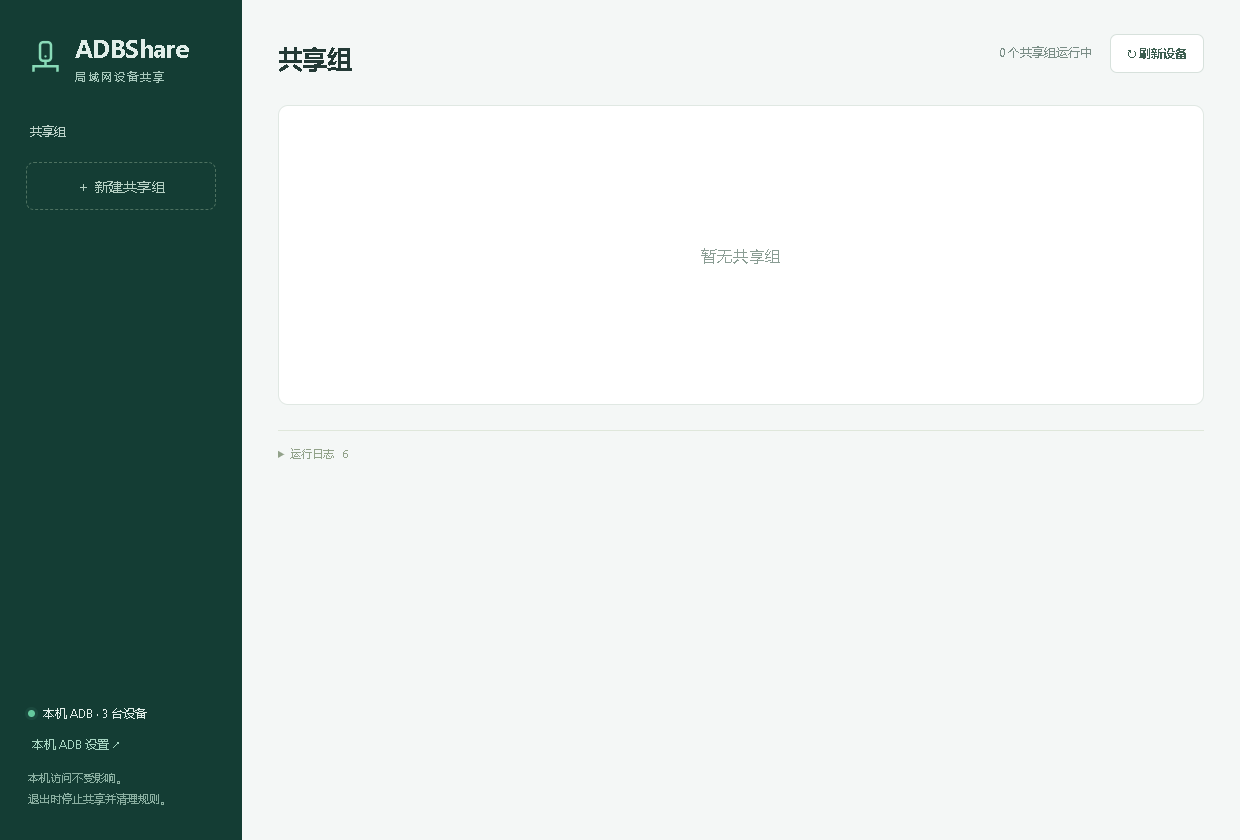
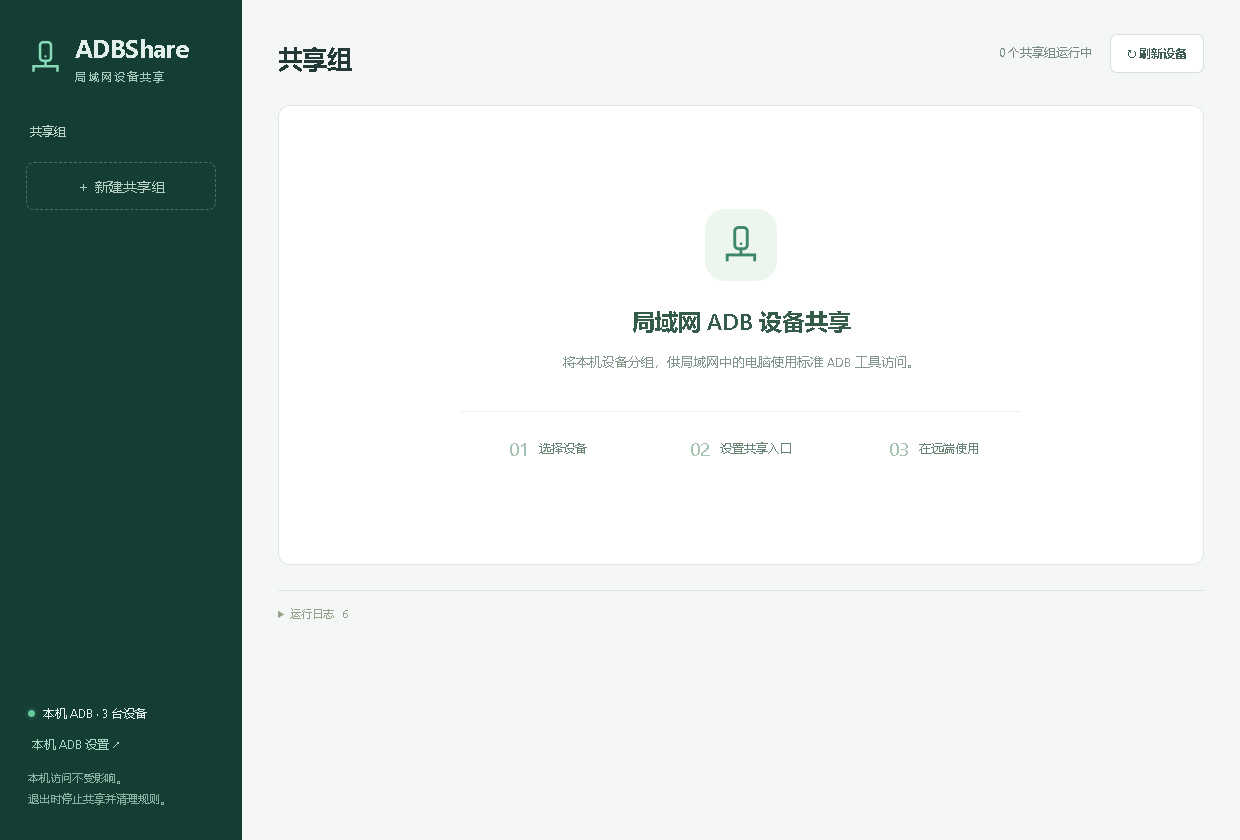
ui: restore a concise welcome page for empty workspaces

diff --git a/src/style.css b/src/style.css
@@ -2,7 +2,7 @@
 .brand{display:flex;align-items:center;gap:12px;font-size:25px;font-weight:650;letter-spacing:-.6px;padding:0 10px 38px}
 .brand small{display:block;font-size:11px;font-weight:400;color:#a7c8bc;letter-spacing:2px;margin-top:4px}
 .brand-icon{width:35px;height:35px;color:#89dbb8}
-.brand svg,.device-icon svg{width:100%;height:100%}
+.brand svg,.device-icon svg,.welcome-icon svg{width:100%;height:100%}
 .side-title{display:flex;align-items:center;justify-content:space-between;padding:0 12px 12px;color:#bdd2c9;font-size:12px}
 nav{overflow:auto;max-height:50vh}
 .group-item{width:100%;padding:15px 12px;background:transparent;color:#c3d8ce;border:0;display:flex;align-items:center;text-align:left;gap:10px;border-radius:9px;margin-bottom:6px}
@@ -34,8 +34,13 @@ nav{overflow:auto;max-height:50vh}
 .success,.error{padding:12px 16px;border-radius:7px;margin-bottom:18px;font-size:12px;line-height:1.7;overflow-wrap:anywhere}
 .success{background:#e4f1e8;color:#286443}
 .error{background:#fcece6;color:#9a452c}
-.welcome{border:1px solid #e0e8e3;border-radius:10px;min-height:300px;display:flex;align-items:center;justify-content:center;background:#fff}
-.welcome h2{color:#8a9d94;font-size:16px;font-weight:400;margin:0}
+.welcome{border:1px solid #e0e8e3;border-radius:12px;min-height:460px;display:flex;flex-direction:column;align-items:center;justify-content:center;padding:48px 36px;text-align:center;background:#fff}
+.welcome-icon{width:72px;height:72px;padding:16px;color:#3c8768;background:#edf5ef;border-radius:20px;margin-bottom:24px}
+.welcome h2{color:#355b4b;font-size:23px;font-weight:550;margin:0}
+.welcome-description{max-width:460px;color:#82968c;font-size:13px;line-height:1.9;margin:14px 0 0}
+.welcome-steps{display:grid;grid-template-columns:repeat(3,1fr);width:min(100%,560px);gap:20px;border-top:1px solid #edf1ee;padding-top:24px;margin-top:36px}
+.welcome-steps span{display:flex;align-items:center;justify-content:center;gap:10px;color:#678474;font-size:12px}
+.welcome-steps b{color:#a6c3b2;font-size:19px;font-weight:400}
 .group-heading{display:flex;justify-content:space-between;align-items:center;margin-bottom:18px}
 .badge{display:inline-block;border:1px solid #dce5df;background:#f0f4f1;color:#6b8175;font-size:11px;border-radius:5px;padding:5px 9px;margin-right:10px}
 .badge.active{background:#e0f1e6;color:#246b44;border-color:#d1e8d8}

diff --git a/src/main.ts b/src/main.ts
@@ -32,7 +32,7 @@ document.querySelector('#app')!.innerHTML = `
   </aside>
   <main><header><h1 id="title">共享组</h1><div class="header-actions"><span id="summary" class="quiet"></span><button id="refresh" class="secondary">↻ 刷新设备</button></div></header>
   <div id="notice" role="status" hidden></div>
-  <section id="welcome" class="welcome"><h2>暂无共享组</h2></section>
+  <section id="welcome" class="welcome"><div class="welcome-icon">${glyph}</div><h2>局域网 ADB 设备共享</h2><p class="welcome-description">将本机设备分组，供局域网中的电脑使用标准 ADB 工具访问。</p><div class="welcome-steps"><span><b>01</b>选择设备</span><span><b>02</b>设置共享入口</span><span><b>03</b>在远端使用</span></div></section>
   <section id="workspace" hidden>
     <div class="group-heading"><div><span id="group-state" class="badge">尚未保存</span><span id="draft-label" class="quiet"></span></div><button id="delete-group" class="danger-text">删除共享组</button></div>
     <div class="apply-bar"><span id="apply-hint" class="quiet">配置只在保存后生效</span><div><button id="save" class="secondary">保存配置</button><button id="toggle" class="primary">保存并开始共享</button></div></div>

diff --git a/docs/validation.md b/docs/validation.md
@@ -27,9 +27,9 @@
 - 启动共享后禁止编辑，复制命令成功。
 - 建立真实 TCP 长连接后界面显示对应设备；停止共享关闭连接并恢复编辑。
 - 空状态、新建、运行中直接删除组，以及非法来源地址的错误反馈。
-- 只保留侧栏一个新建入口，删除“工作空间”和首页创建引导。
+- 只保留侧栏一个新建入口，删除“工作空间”；无组首页保留简洁图标、说明和三步流程，不重复放置新建按钮。
 - 清理记录损坏时，删除会停止共享并保留组；修复后可重试删除，成功后无横幅。
-- 删除多组中的一组后，自动显示剩余组；最后一个组删除后显示简洁空状态。
+- 删除多组中的一组后，自动显示剩余组；最后一个组删除后显示简洁欢迎首页。
 - 本机设置窗口展示正确的上游端口。
 - 通过原生 WM_CLOSE 关闭主窗口；规则清理失败时窗口保留并显示原因，修复后重试成功，监听端口释放、程序退出。
 - 未发现 WebView JavaScript 错误。
